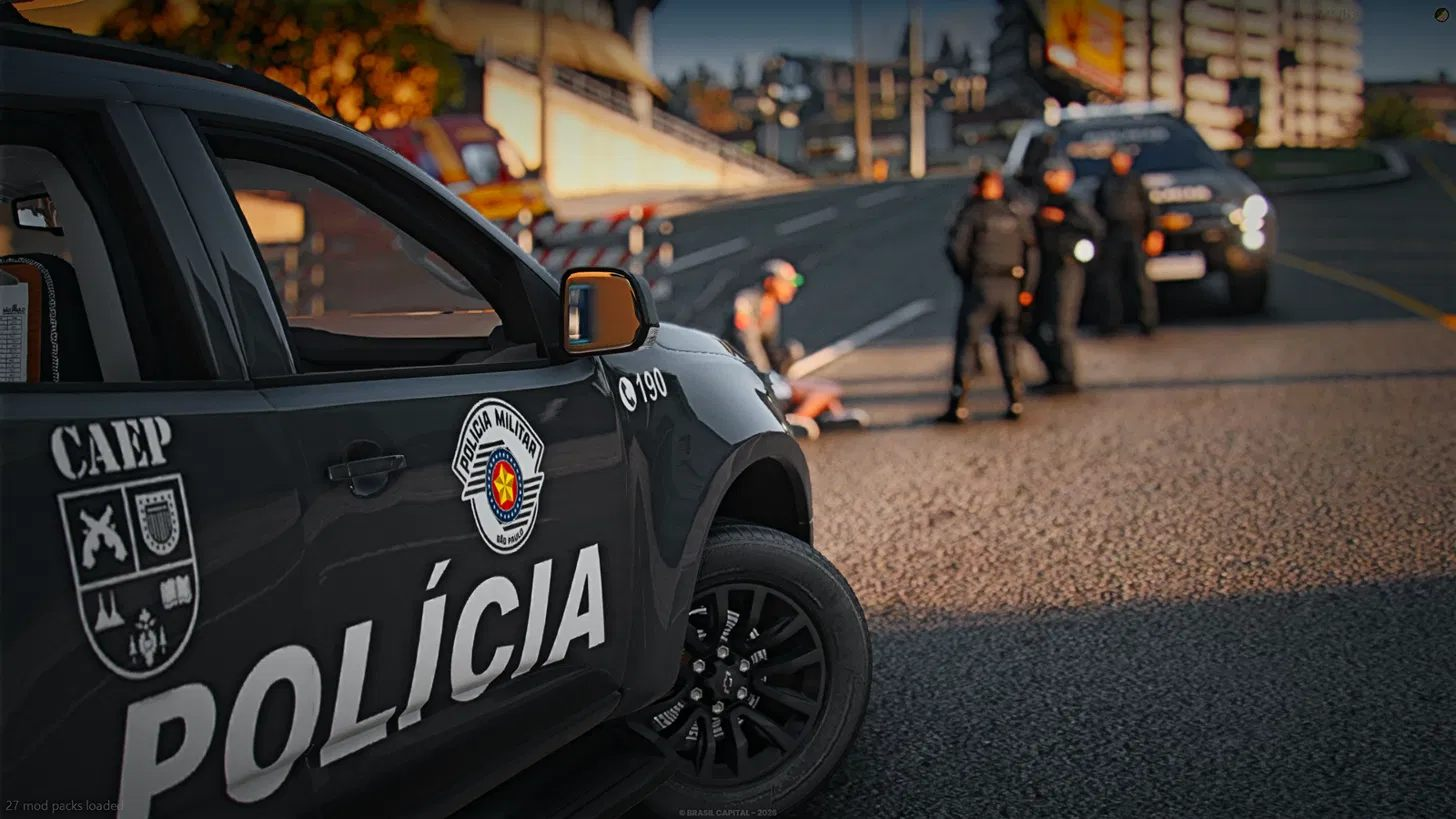
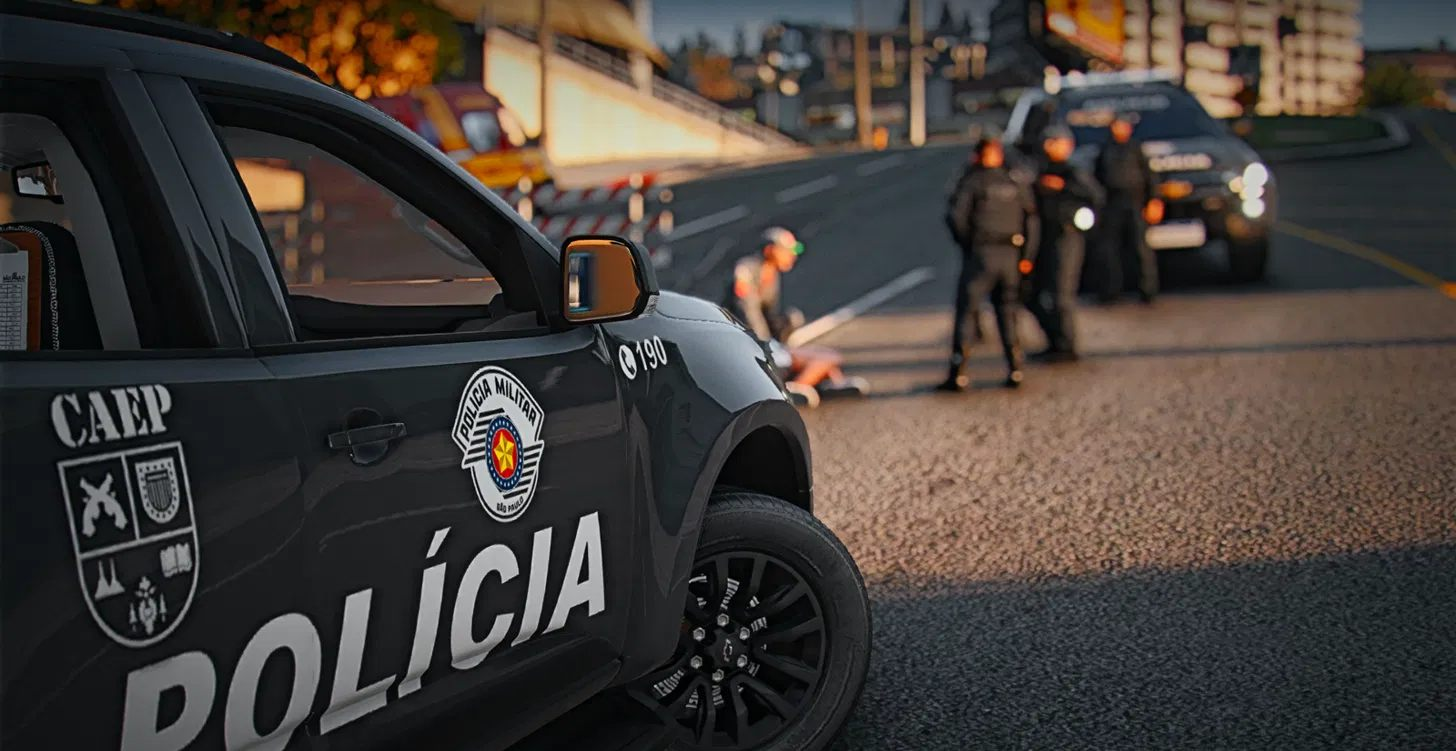
Remove textos sobrepostos das fotos

diff --git a/index.html b/index.html
@@ -66,7 +66,7 @@ footer p{margin:6px 0 0}
 
 <div class="grade">
   <a class="card" href="/rdpm">
-    <span class="foto"><img src="foto-viatura.jpg" alt="" width="1456" height="819" style="object-position:35% 40%"></span>
+    <span class="foto"><img src="foto-viatura.jpg" alt="" width="1456" height="751" style="object-position:35% 40%"></span>
     <span class="ico"><svg viewBox="0 0 24 24" fill="none" stroke="currentColor" stroke-width="1.8" stroke-linecap="round" stroke-linejoin="round" aria-hidden="true"><path d="M12 3v18M7 21h10M4 7h16M4 7l-2.5 6a3.5 3.5 0 0 0 5 0L4 7zm16 0-2.5 6a3.5 3.5 0 0 0 5 0L20 7z"/></svg></span>
     <span class="tag">Disciplina</span>
     <b>Regulamento Disciplinar da PM (RDPM)</b>
@@ -82,7 +82,7 @@ footer p{margin:6px 0 0}
     <span class="rodape"><span class="v">Minuta v1.0</span><span class="ir">Abrir →</span></span>
   </a>
   <a class="card" href="/cursos">
-    <span class="foto"><img src="foto-ocorrencia.jpg" alt="" width="1456" height="819" style="object-position:60% 40%"></span>
+    <span class="foto"><img src="foto-ocorrencia.jpg" alt="" width="1456" height="751" style="object-position:60% 40%"></span>
     <span class="ico"><svg viewBox="0 0 24 24" fill="none" stroke="currentColor" stroke-width="1.8" stroke-linecap="round" stroke-linejoin="round" aria-hidden="true"><circle cx="12" cy="12" r="8"/><circle cx="12" cy="12" r="3"/><path d="M12 2v4M12 18v4M2 12h4M18 12h4"/></svg></span>
     <span class="tag">Formação</span>
     <b>Cursos da PM</b>
@@ -100,9 +100,9 @@ footer p{margin:6px 0 0}
   <div class="mosaico">
     <figure><img src="foto-escolta.jpg" alt="Escolta com motocicletas e viaturas da PM" width="1456" height="767" loading="lazy"></figure>
     <figure><img src="foto-frota.jpg" alt="Frota de viaturas enfileirada com o efetivo em forma" width="1456" height="767" loading="lazy"></figure>
-    <figure><img src="foto-ocorrencia.jpg" alt="Policiais atendendo uma ocorrência na via" width="1456" height="819" loading="lazy" style="object-position:65% 50%"></figure>
+    <figure><img src="foto-ocorrencia.jpg" alt="Policiais atendendo uma ocorrência na via" width="1456" height="751" loading="lazy" style="object-position:65% 50%"></figure>
     <figure><img src="foto-motos-noite.jpg" alt="Patrulha de motocicletas à noite" width="955" height="562" loading="lazy"></figure>
-    <figure><img src="foto-viatura.jpg" alt="Policial da CAEP ao lado da viatura" width="1456" height="819" loading="lazy" style="object-position:35% 50%"></figure>
+    <figure><img src="foto-viatura.jpg" alt="Policial da CAEP ao lado da viatura" width="1456" height="751" loading="lazy" style="object-position:35% 50%"></figure>
   </div>
 </section>
 
